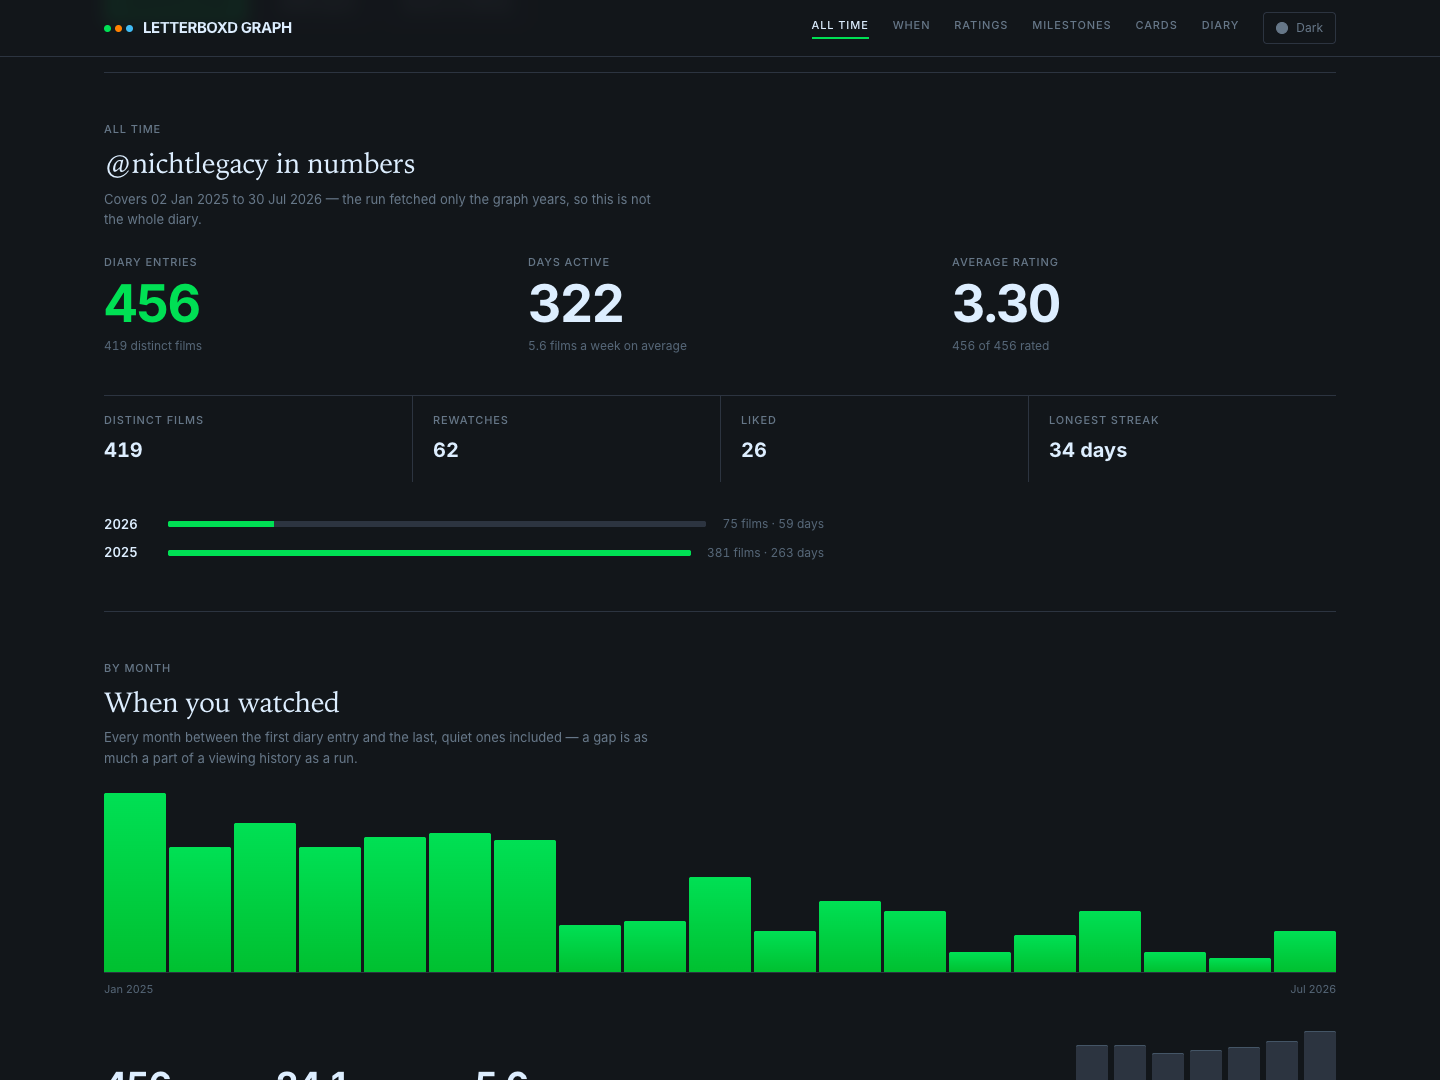
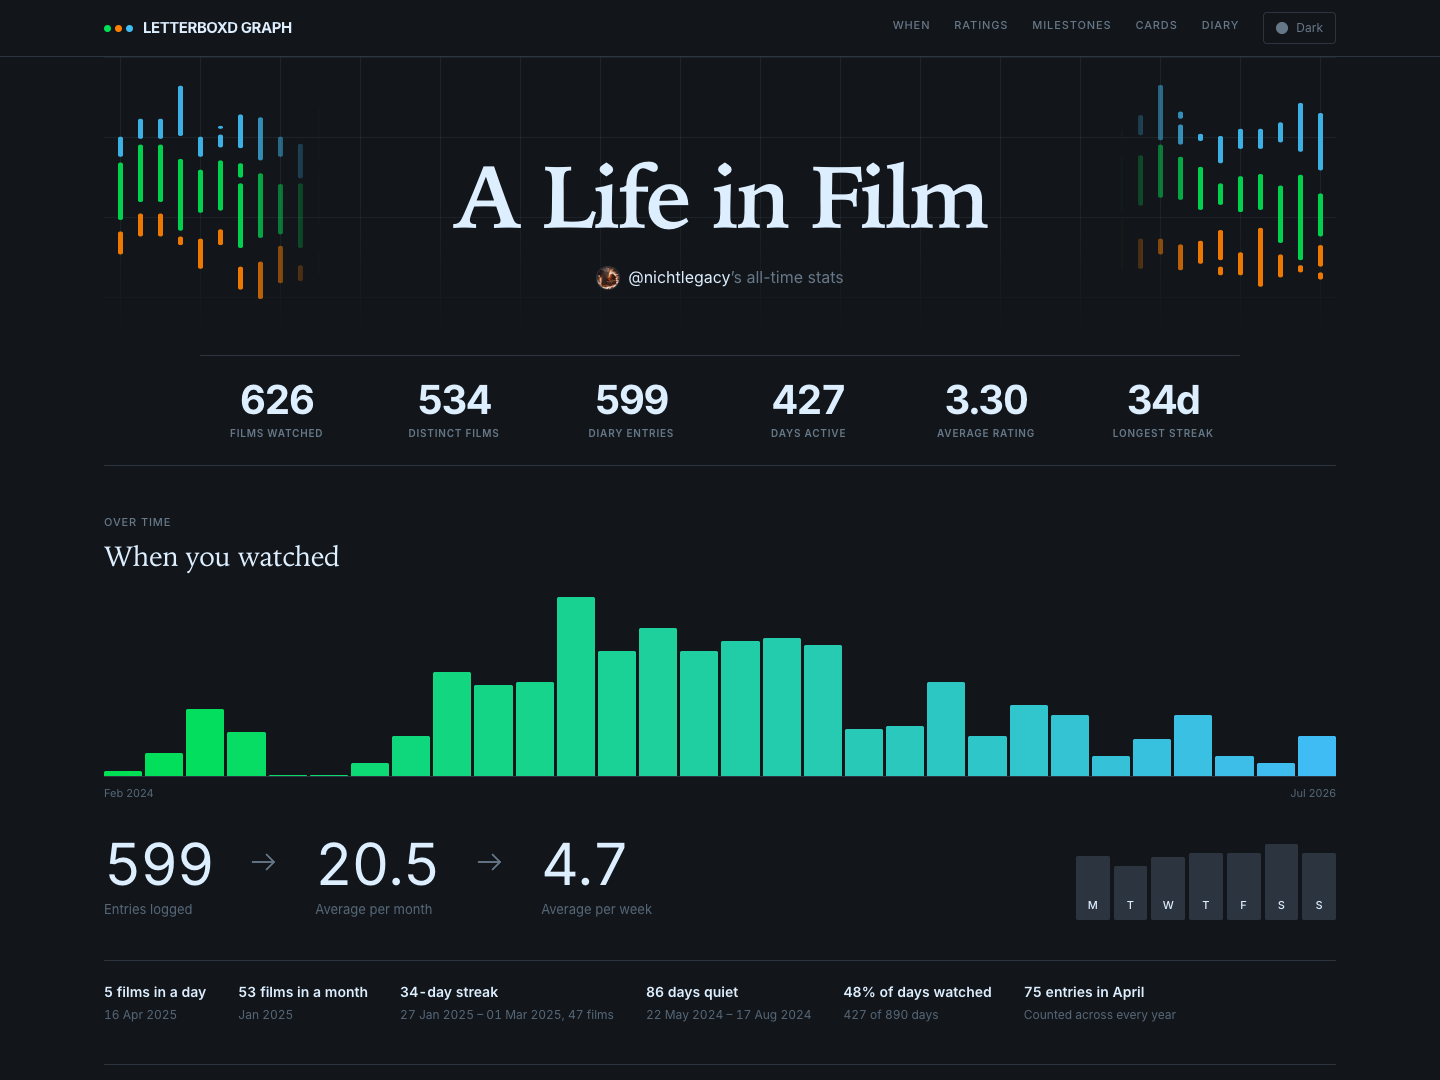
docs: refresh Pages site and OG preview

diff --git a/tests/site.test.js b/tests/site.test.js
@@ -293,6 +293,7 @@ test('describe leads the share card with the figures', () => {
   assert.match(text.ogDescription, /^599 diary entries across 427 days\./);
   assert.match(text.ogDescription, /Longest streak 34 days, average rating 3\.3/);
   assert.ok(text.ogDescription.length <= 200, `card description is ${text.ogDescription.length} characters, X cuts at about 200`);
+  assert.match(text.imageAlt, /Pages site/);
   assert.match(text.imageAlt, /626 films watched/);
 });
 

diff --git a/README.md b/README.md
@@ -529,7 +529,7 @@ limit — the cards at full size, and the figures behind them read out at length
 
 <div align="center">
 
-**[nichtlegacy.github.io/letterboxd-graph](https://nichtlegacy.github.io/letterboxd-graph/)**
+**[letterboxd.nichtlegacy.com](https://letterboxd.nichtlegacy.com/)**
 
 <img alt="The generated cards on the Pages site" src=".github/assets/pages-dark.png" width="100%">
 
@@ -537,50 +537,25 @@ limit — the cards at full size, and the figures behind them read out at length
 
 | Section | What is on it |
 |---------|---------------|
-| **A Life in Film** | The opening: films watched, distinct films, diary entries, days active, average rating and longest streak, on one row |
-| **When you watched** | A column per month, empty ones included; weekday distribution, weekly and monthly averages, busiest day, longest streak, longest quiet stretch — and a figure per year, written out rather than drawn, so a twenty-year diary reads as cleanly as a two-year one |
+| **A Life in Film** | The opening: profile avatar, films watched, distinct films, diary entries, days active, average rating and longest streak, on one row |
+| **When you watched** | A column per month, empty ones included; weekday distribution, weekly and monthly averages, busiest day, fullest month, longest streak, longest quiet stretch, watched-day share and seasonal pattern — plus a figure per year, written out rather than drawn |
 | **How you rated** | The half-star histogram, empty steps kept, beside the average, the most given rating and how much is rated or liked at all |
-| **What you reached for** | Films by release decade, and the five you went back to most |
+| **What you reached for** | Films by release decade with counts, share and average rating, plus the five you went back to most |
 | **Where it turned over** | The first entry, the round numbers after it, and the latest, on one track. `milestoneStep` scales with the diary — every 25th at a hundred entries, every thousandth at five thousand — so the row holds its length instead of growing a marker per hundred |
-| **The cards** | Graph, profile, a tab per year, a tab per month — each with **Copy image**, **Copy SVG**, **Copy embed** and **Open SVG**, the same four on a right click anywhere on the card |
-| **Recent diary** | The last sixteen entries, out of the JSON export, in two columns |
+| **The cards** | Graph, profile, a tab per year, a tab per month — the finished month opens first, tabs cross-fade, and each card has **Copy image**, **Copy SVG**, **Copy embed** and **Open SVG**, also available on right click |
+| **Recent diary** | The last sixteen entries from the JSON export, newest first, in two columns; rewatches and likes stay marked |
+| **Use them yourself** | Three short paths: copy a responsive embed, run the action on your own diary, or publish a Pages site like this one. The footer links back to the Letterboxd profile, source and JSON export |
 
 The figures cover whatever the run fetched — the whole diary under `scope: all`,
 the graph years under `scope: years`, which the page says out loud rather than
-passing narrow numbers off as all-time.
+passing narrow numbers off as all-time. Year entries, rating steps, decade rows,
+milestones and diary films link back to their matching Letterboxd pages.
 
-### Sharing it
-
-Paste the page's address into Discord, Slack, X, WhatsApp, Signal, Bluesky,
-iMessage or Teams and it unfurls as a card: the profile card as the image, the
-diary's headline figures as the text.
-
-None of that can come from the page as it runs. A crawler reads the HTML that
-was served and stops there — it does not run the JavaScript that fetches
-`data.json` and fills the page in — so the build writes the figures into the
-head instead. The same step rasterises the profile card to `og.png`, because
-every one of those platforms drops an SVG preview rather than drawing it, and
-moves the image's URL with each run so a reshared link is not answered from a
-cache holding last week's numbers.
-
-| Written into the built page | What reads it |
-|-----------------------------|---------------|
-| `<title>`, `description`, `canonical` | Google's result listing |
-| `og:*`, including `og:image` at 1200×630 | Discord, Slack, WhatsApp, Signal, Bluesky, iMessage, Teams, LinkedIn |
-| `twitter:card` as `summary_large_image` | X |
-| JSON-LD: `WebSite`, `Person`, `ProfilePage` | Search engines reading structured data |
-| `robots.txt`, `sitemap.xml` | Crawlers, and the `lastmod` that tells them it changed |
-
-The addresses in all of it are absolute, taken from the deployment itself, so a
-custom domain needs no second place to be configured.
-
-It is also the one place where the cards work as drawn: GitHub serves an SVG
-through an `<img>` tag, which gets no mouse events, while the page embeds each
-one as an `<object>`, so tooltips, links and the reveal animation all behave.
-The rest follows from the same build — themes swap the file rather than filter
-it, sections come and go with whatever the last run wrote, embeds load as they
-scroll into view, and type is served from `fonts/`, so nothing is fetched from a
-third party.
+The page follows the system theme until switched, then keeps the chosen dark or
+light card set. Sticky navigation, smooth section movement and a back-to-top
+control keep the long page usable; on a phone the section links become a
+horizontal strip. Card embeds load as they scroll into view, and a missing
+generated export gets a retryable error state instead of an empty page.
 
 <details>
 <summary><b>Publishing it for your own profile</b></summary>
@@ -593,6 +568,9 @@ Which route you take depends on which [Quick Start](#quick-start) you took.
 Letterboxd Graph + JSON Export** once from the **Actions** tab; the deploy
 follows on its own, and the site lands at
 `https://<github-user>.github.io/<repository>/`.
+
+For a custom domain, configure it under **Settings → Pages**; the build takes
+the deployed address from GitHub automatically.
 
 **If you added the action to a repository of your own**, copy four things
 across:
@@ -615,8 +593,8 @@ Then:
    `src/stats.js`, and without it Node reads that file as CommonJS and the build
    dies on the `export` keyword.
 3. Keep the `npm ci` step in `pages.yml`. The build uses `sharp` to rasterise
-   the share preview; without it the page still deploys, but a shared link
-   unfurls with no image.
+   the Open Graph preview; without it the page still deploys, but its preview
+   image is missing.
 4. Leave `commit` at its default. The build reads `images/` out of the
    repository and fetches nothing, so the files have to be committed for it to
    have anything to publish.
